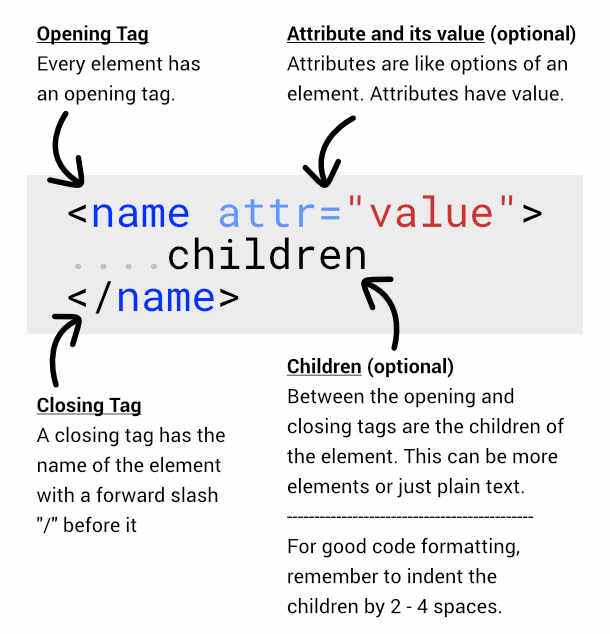
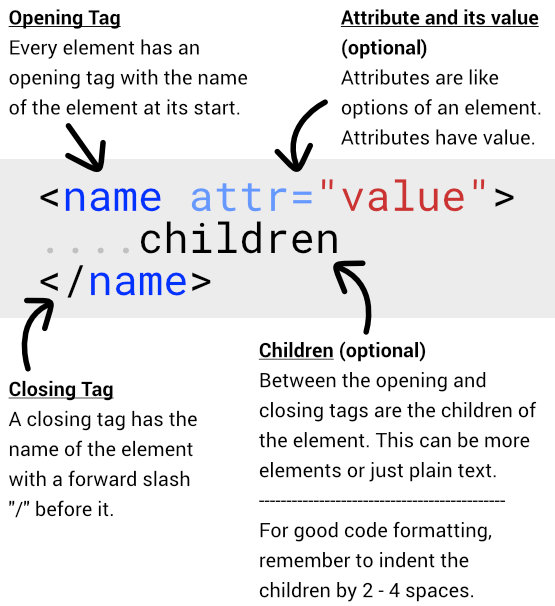
Images added and typos fixed

Changed region(s): [[0.0, 0.0, 0.9802, 1.0], [0.0, 0.1782, 0.0306, 0.2079]]

diff --git a/README.md b/README.md
@@ -1,26 +1,27 @@
 # HTML Cheatsheet
 This is the cheatsheet for the basic syntax and terminologies of HTML.
 
-Note: This is not an exhaustive list of all the elements HTML has for an awesome HTML Reference see below
+Note: This is not an exhaustive list of all the elements HTML has. For an awesome [HTML Reference, click here.](https://developer.mozilla.org/en-US/docs/Web/HTML/Element)
 
 ## Basic Syntax
 All languages have a syntax. English, Urdu, HTML, JavaScript all have a syntax. Here is the syntax of writing HTML...
 
 But first one important info.
 
-HTML is a markup language that has ONLY one thing - Elements. HTML is a collection of elements. different elements are used to build a webpage.
+HTML is a markup language that has ONLY one thing - Elements. HTML is a collection of elements. A combination of elements are used to build a webpage.
 
-So here is the syntax of an HTML Element:
+**So here is the basic syntax of an HTML Element:**
 
-[syntax-basic]: html-cheatsheet.jpg
-[syntax-self-closing]: ./html-cheatsheet-self-closing.jpg
+![Basic Syntax](html-cheatsheet.jpg)
 
-![syntax-basic]
-![syntax-self-closing]
+### Self-Closing Element/Tag
+Not all elements have children, in that case the opening tag can close itself - AKA *Self-Closing Element/Tag*. Here is how its done:
 
-```
-<name attr="value">
-    children
-</name>
-```
+![Self-Closing Element](html-cheatsheet-self-closing.jpg)
 
+## HTML References
+The above was how to write HTML, now you may want to know all the different elements there are available in the HTML language.
+
+Luckily Mozilla and a ton of open source contributors have put together an [HTML Reference](https://developer.mozilla.org/en-US/docs/Web/HTML/Element)
+
+It has a list of all HTML elements by category.
